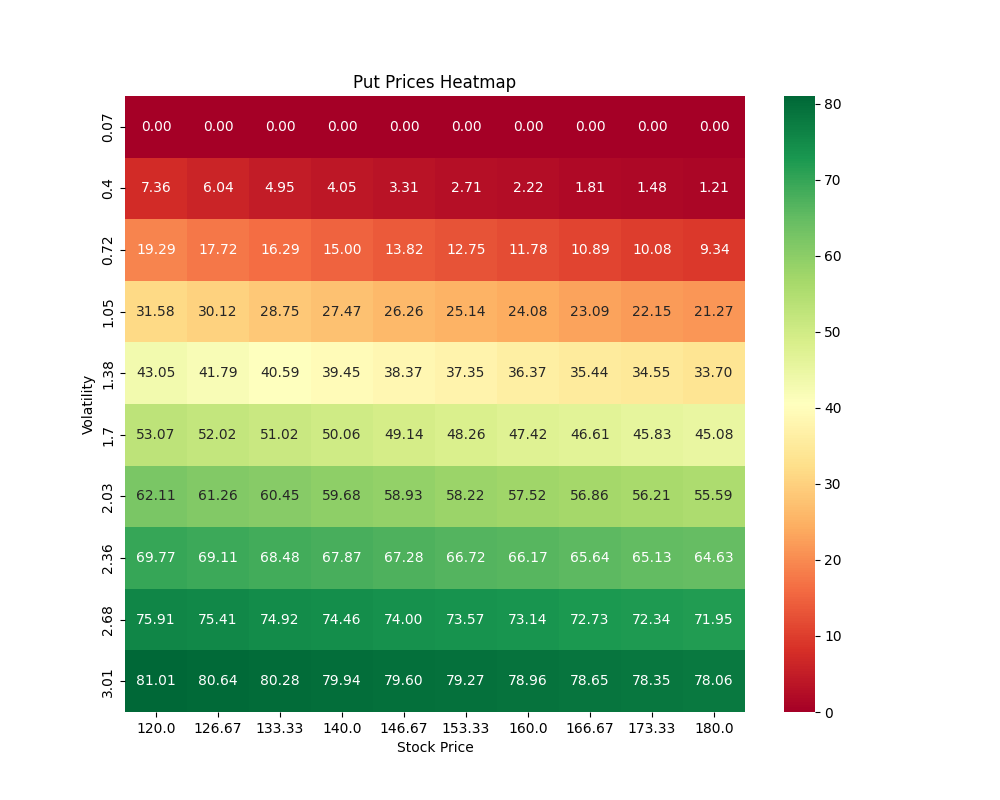
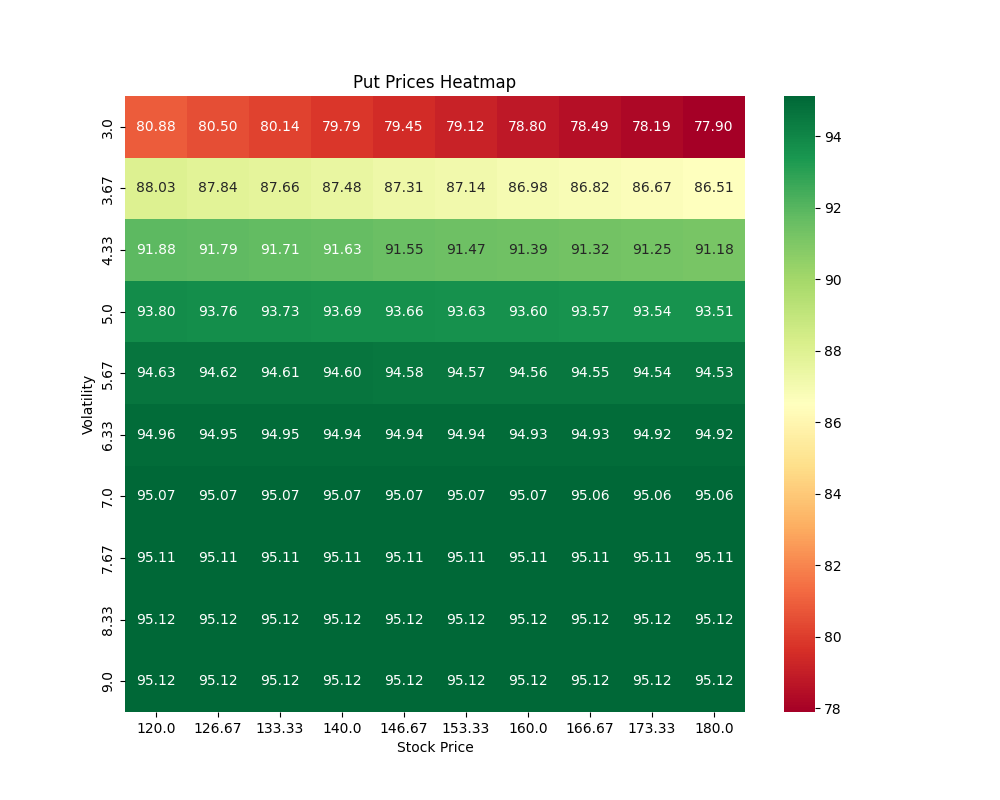
Trying to separate generate and calculate

diff --git a/templates/index.html b/templates/index.html
@@ -3,75 +3,81 @@
 <head>
     <meta charset="UTF-8">
     <meta name="viewport" content="width=device-width, initial-scale=1.0">
-    <link rel="stylesheet" href="{{url_for('static', filename='mystyle.css')}}">
-    <script src="{{url_for('static', filename='myscript.js')}}" defer></script>
+    <link rel="stylesheet" href="{{ url_for('static', filename='mystyle.css') }}">
+    <script src="{{ url_for('static', filename='myscript.js') }}" defer></script>
     <title>Options Pricing</title>
 </head>
 <body>
     <div class="container">
         <div class="OptionsPricingCalc">
-            <form id="formSubmission" method="POST" action="/calc">
+            <!-- Form for Calculating Option Prices -->
+            <form id="calculateForm" method="POST" action="/calc">
                 <h1>Black-Scholes Option Pricing Model</h1>
                 <div class="ResultsDisplay">
                     <div class="result-card call">
                         <div class="result-label">CALL PRICE</div>
-                        <div class="result-value">{{call_price}}</div>
+                        <div class="result-value">{{ call_price }}</div>
                     </div>
                     <div class="result-card put">
                         <div class="result-label">PUT PRICE</div>
-                        <div class="result-value">{{put_price}}</div>
+                        <div class="result-value">{{ put_price }}</div>
                     </div>
                 </div>
                 <label for="stockPrice">Stock Price (S):</label>
-                <input type="number" id="stockPrice" name="stockPrice" value="{{stockPrice}}" step="0.01" placeholder="Enter Current Price">
-        
+                <input type="number" id="stockPrice" name="stockPrice" value="{{ stockPrice }}" step="0.01" placeholder="Enter Current Price">
+
                 <label for="strikePrice">Strike Price (X):</label>
-                <input type="number" id="strikePrice" name="strikePrice" value="{{strikePrice}}" step="0.01" placeholder="Enter Strike Price">
-        
+                <input type="number" id="strikePrice" name="strikePrice" value="{{ strikePrice }}" step="0.01" placeholder="Enter Strike Price">
+
                 <label for="RFIR">Risk-Free Interest Rate (r):</label>
-                <input type="number" id="RFIR" name="RFIR" value="{{RFIR}}" step="0.01" placeholder="Enter the Risk-Free Interest Rate">
-        
+                <input type="number" id="RFIR" name="RFIR" value="{{ RFIR }}" step="0.01" placeholder="Enter the Risk-Free Interest Rate">
+
                 <label for="expiration">Time to Expire in Years (T):</label>
-                <input type="number" id="expiration" name="expiration" value="{{expiration}}" step="0.01" placeholder="Enter the Expiration Time">
-        
+                <input type="number" id="expiration" name="expiration" value="{{ expiration }}" step="0.01" placeholder="Enter the Expiration Time">
+
                 <label for="volatility">Volatility (σ):</label>
-                <input type="number" id="volatility" name="volatility" value="{{volatility}}" step="0.01" placeholder="Enter Specified Volatility">
-        
+                <input type="number" id="volatility" name="volatility" value="{{ volatility }}" step="0.01" placeholder="Enter Specified Volatility">
+                
+                <button type="submit">CALCULATE</button>
+            </form>
+
+            <!-- Form for Generating Heatmaps -->
+            <form id="generateForm" method="POST" action="/generate">
                 <div class="Parameters">
                     <div class="SPParameters">
                         <div class="MinSpCont">
                             <label for="minStockPrice">Minimum Stock Price</label>
-                            <input type="number" id="minStockPrice" name="minStockPrice" value="{{minStockPrice}}" step="0.01">
+                            <input type="number" id="minStockPrice" name="mappedMinStockPrice" value="{{ minStockPrice }}" step="0.01">
                         </div>
                         <div class="MaxSpCont">
                             <label for="maxStockPrice">Maximum Stock Price</label>
-                            <input type="number" id="maxStockPrice" name="maxStockPrice" value="{{maxStockPrice}}" step="0.01">
+                            <input type="number" id="maxStockPrice" name="mappedMaxStockPrice" value="{{ maxStockPrice }}" step="0.01">
                         </div>
                     </div>
                     <div class="VolatilityParameters">
                         <div class="minVolCont">
                             <label for="minVolatility">Minimum Volatility</label>
-                            <input id="minVolatility" name="minVolatility" type="range" min="0.01" max="{{minVolatility}}" step="0.01" value="{{mappedMinVolatility}}">
+                            <input id="minVolatility" name="minVolatility" type="range" min="0.01" max="{{ minVolatility }}" step="0.01" value="{{ mappedMinVolatility }}">
                             <p>
                                 <span>0.01</span>
-                                <span class="myNum1">{{mappedMinVolatility}}</span>
-                                <span>{{minVolatility}}</span>
+                                <span class="myNum1">{{ mappedMinVolatility }}</span>
+                                <span>{{ minVolatility }}</span>
                             </p>
                         </div>
                         <div class="maxVolCont">
                             <label for="maxVolatility">Maximum Volatility</label>
-                            <input id="maxVolatility" name="maxVolatility" type="range" min="0.01" max="{{maxVolatility}}" step="0.01" value="{{mappedMaxVolatility}}">
+                            <input id="maxVolatility" name="maxVolatility" type="range" min="0.01" max="{{ maxVolatility }}" step="0.01" value="{{ mappedMaxVolatility }}">
                             <p>
-                                <span>{{minVolatility}}</span>
-                                <span class="myNum2">{{mappedMaxVolatility}}</span>
-                                <span>{{maxVolatility}}</span>
+                                <span>{{ minVolatility }}</span>
+                                <span class="myNum2">{{ mappedMaxVolatility }}</span>
+                                <span>{{ maxVolatility }}</span>
                             </p>
                         </div>
                     </div>                       
                 </div>
                 <div class="ColorParamters">
                     <label for="heatmapColors">Select Color Palette:</label>
-                    <select id="heatmapColors" name="heatmapColors" data-selected="{{heatmapColors}}">
+                    <select id="heatmapColors" name="heatmapColors" data-selected="{{ heatmapColors }}">
                         <option value="RdYlGn">Red/Yellow/Green</option>
                         <option value="rocket">Rocket</option>
                         <option value="mako">Mako</option>
@@ -79,9 +85,11 @@
                         <option value="viridis">Viridis</option>
                     </select>
                 </div> 
-                <button type="submit">CALCULATE & GENERATE</button>
+                <button type="submit">GENERATE</button>
             </form>
         </div>
+
+        <!-- Heatmap Section -->
         <div class="Heatmap">
             <div class="HeatmapGraphs">
                 <h1>Heatmaps</h1>

diff --git a/app.py b/app.py
@@ -68,6 +68,9 @@ def index():
     call_prices = np.zeros((len(stockRange), len(volRange)))
     put_prices = np.zeros((len(stockRange), len(volRange)))
 
+    mappedMinSP = minSP
+    mappedMaxSP = maxSP
+
     mappedMinVol = minVol
     mappedMaxVol = maxVol
 
@@ -96,6 +99,8 @@ def index():
         maxVolatility=f"{maxVol:.2f}",
         mappedMinVolatility=f"{mappedMinVol:.2f}",
         mappedMaxVolatility=f"{mappedMaxVol:.2f}",
+        mappedMinStockPrice=f"{mappedMinSP:.2f}",
+        mappedMaxStockPrice=f"{mappedMaxSP:.2f}",
         heatmapColors=f"{colorPalette}"
     )
 
@@ -116,8 +121,8 @@ def calc():
     minVol = sigma * 0.5
     maxVol =  sigma * 1.5
 
-    mappedMinSP = getFormValue(request.form, "minStockPrice", minSP)
-    mappedMaxSP = getFormValue(request.form, "maxStockPrice", maxSP)
+    mappedMinSP = getFormValue(request.form, "mappedMinStockPrice", minSP)
+    mappedMaxSP = getFormValue(request.form, "mappedMaxStockPrice", maxSP)
 
     mappedMinVol = getFormValue(request.form, "minVolatility", minVol)
     mappedMaxVol = getFormValue(request.form, "maxVolatility", maxVol)
@@ -155,6 +160,8 @@ def calc():
         maxVolatility=f"{maxVol:.2f}",
         mappedMinVolatility=f"{mappedMinVol:.2f}",
         mappedMaxVolatility=f"{mappedMaxVol:.2f}",
+        mappedMinStockPrice=f"{mappedMinSP:.2f}",
+        mappedMaxStockPrice=f"{mappedMaxSP:.2f}",
         heatmapColors=f"{colorPalette}"
     )
 
